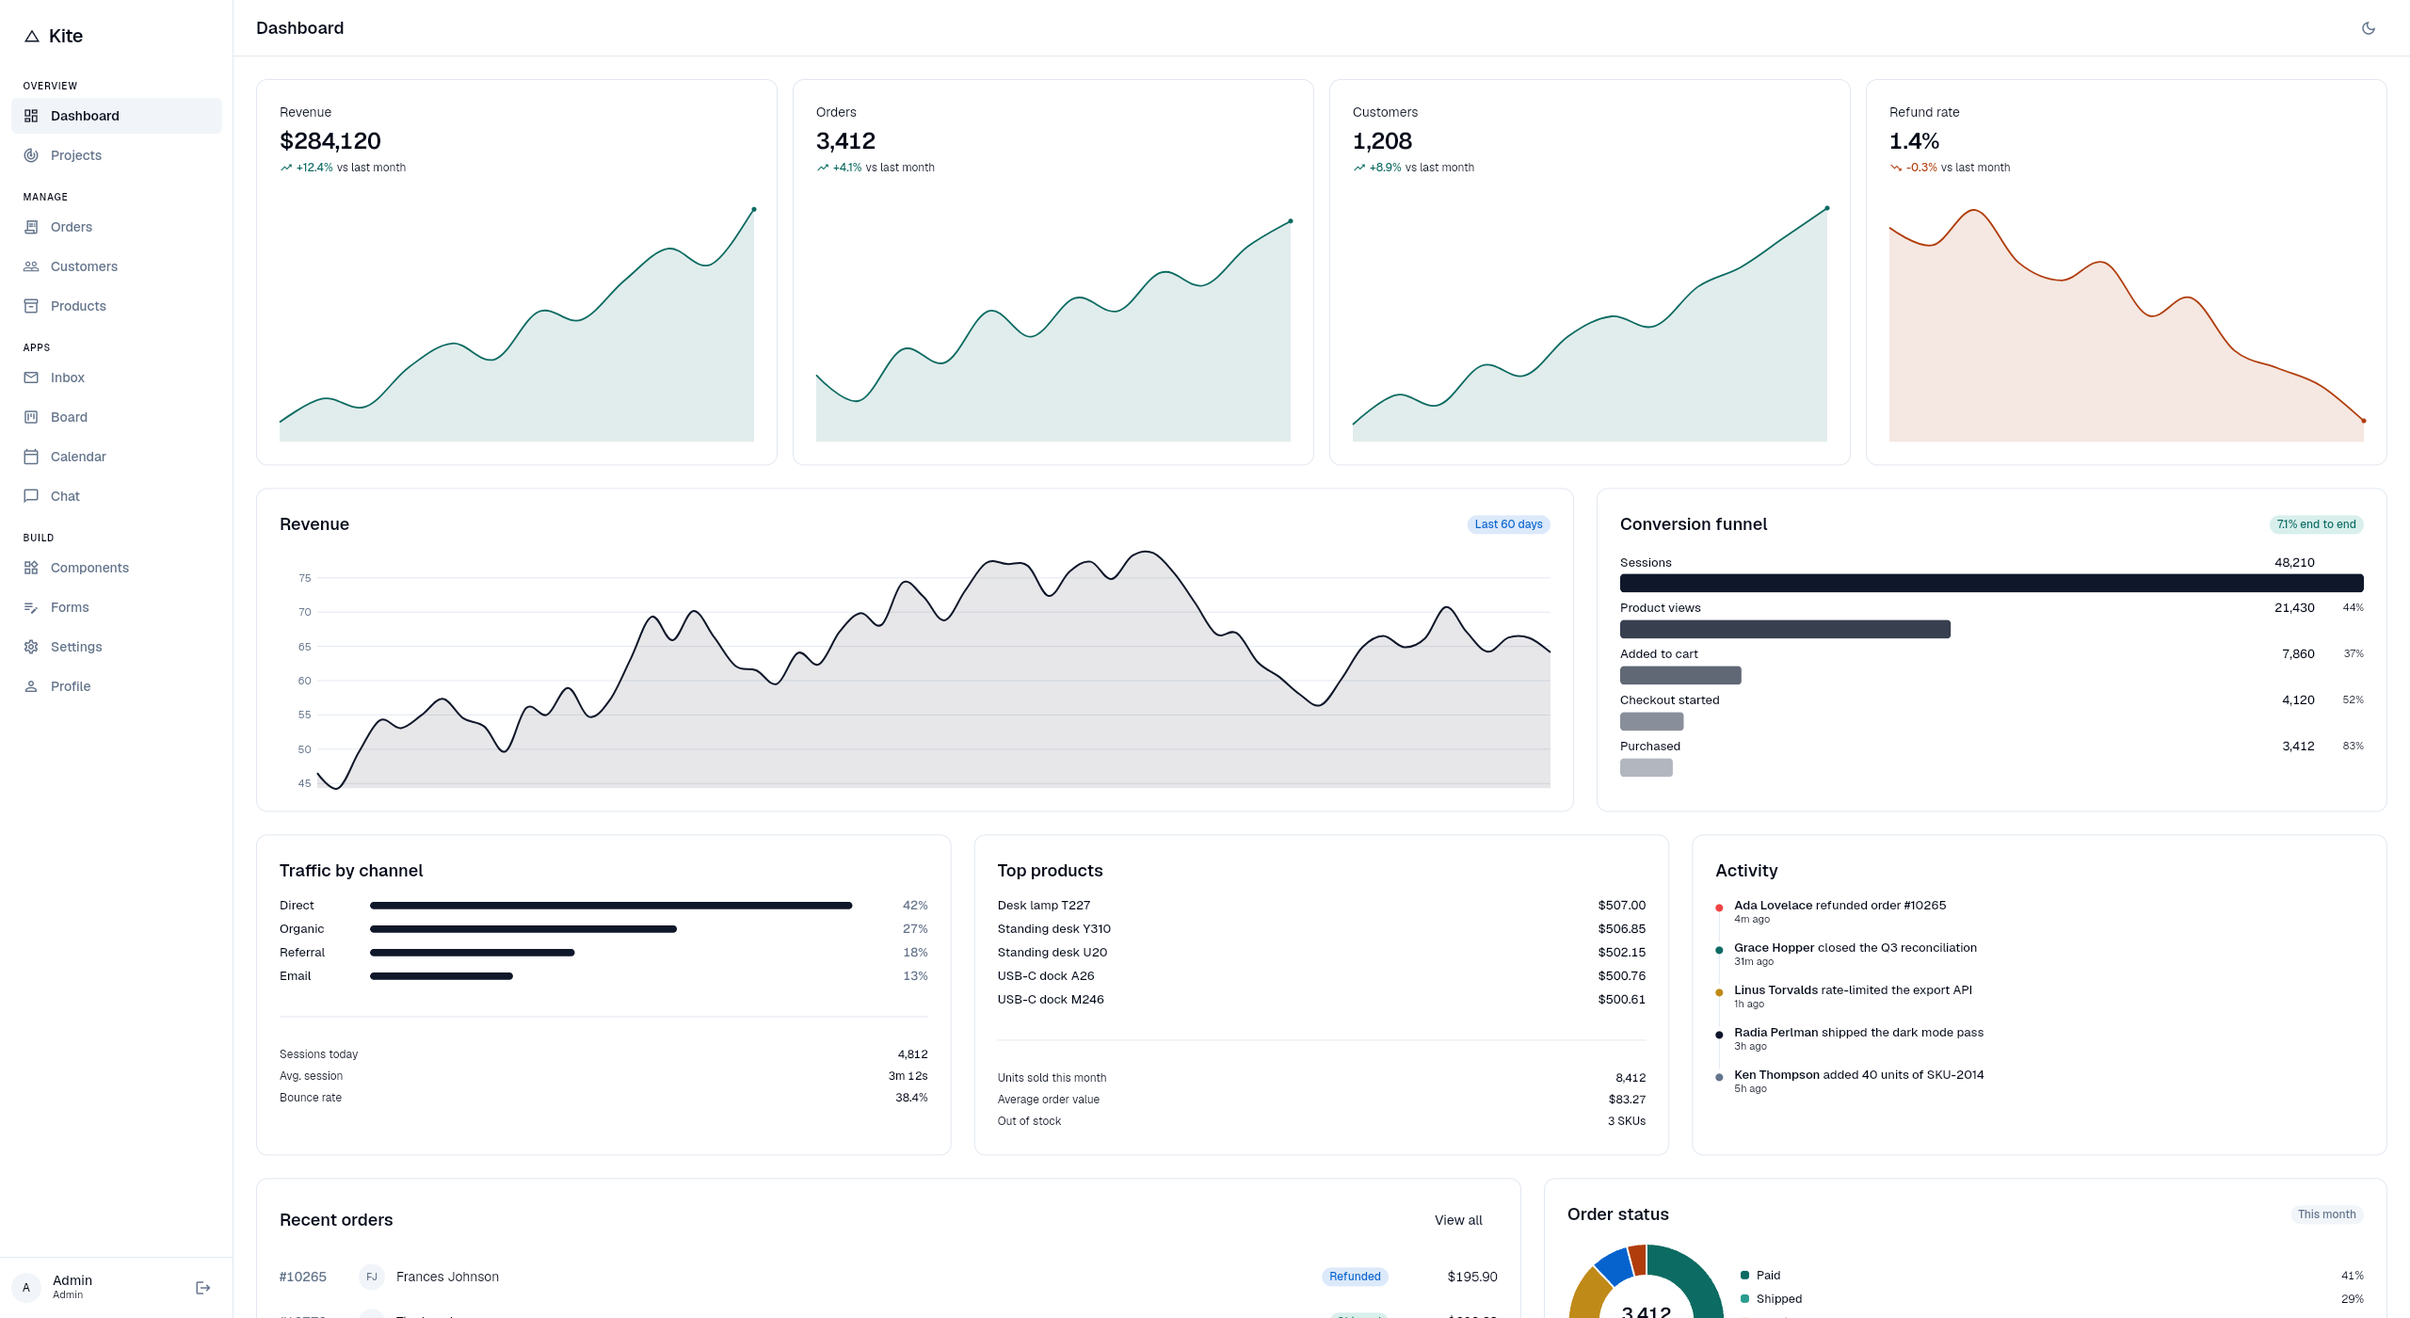
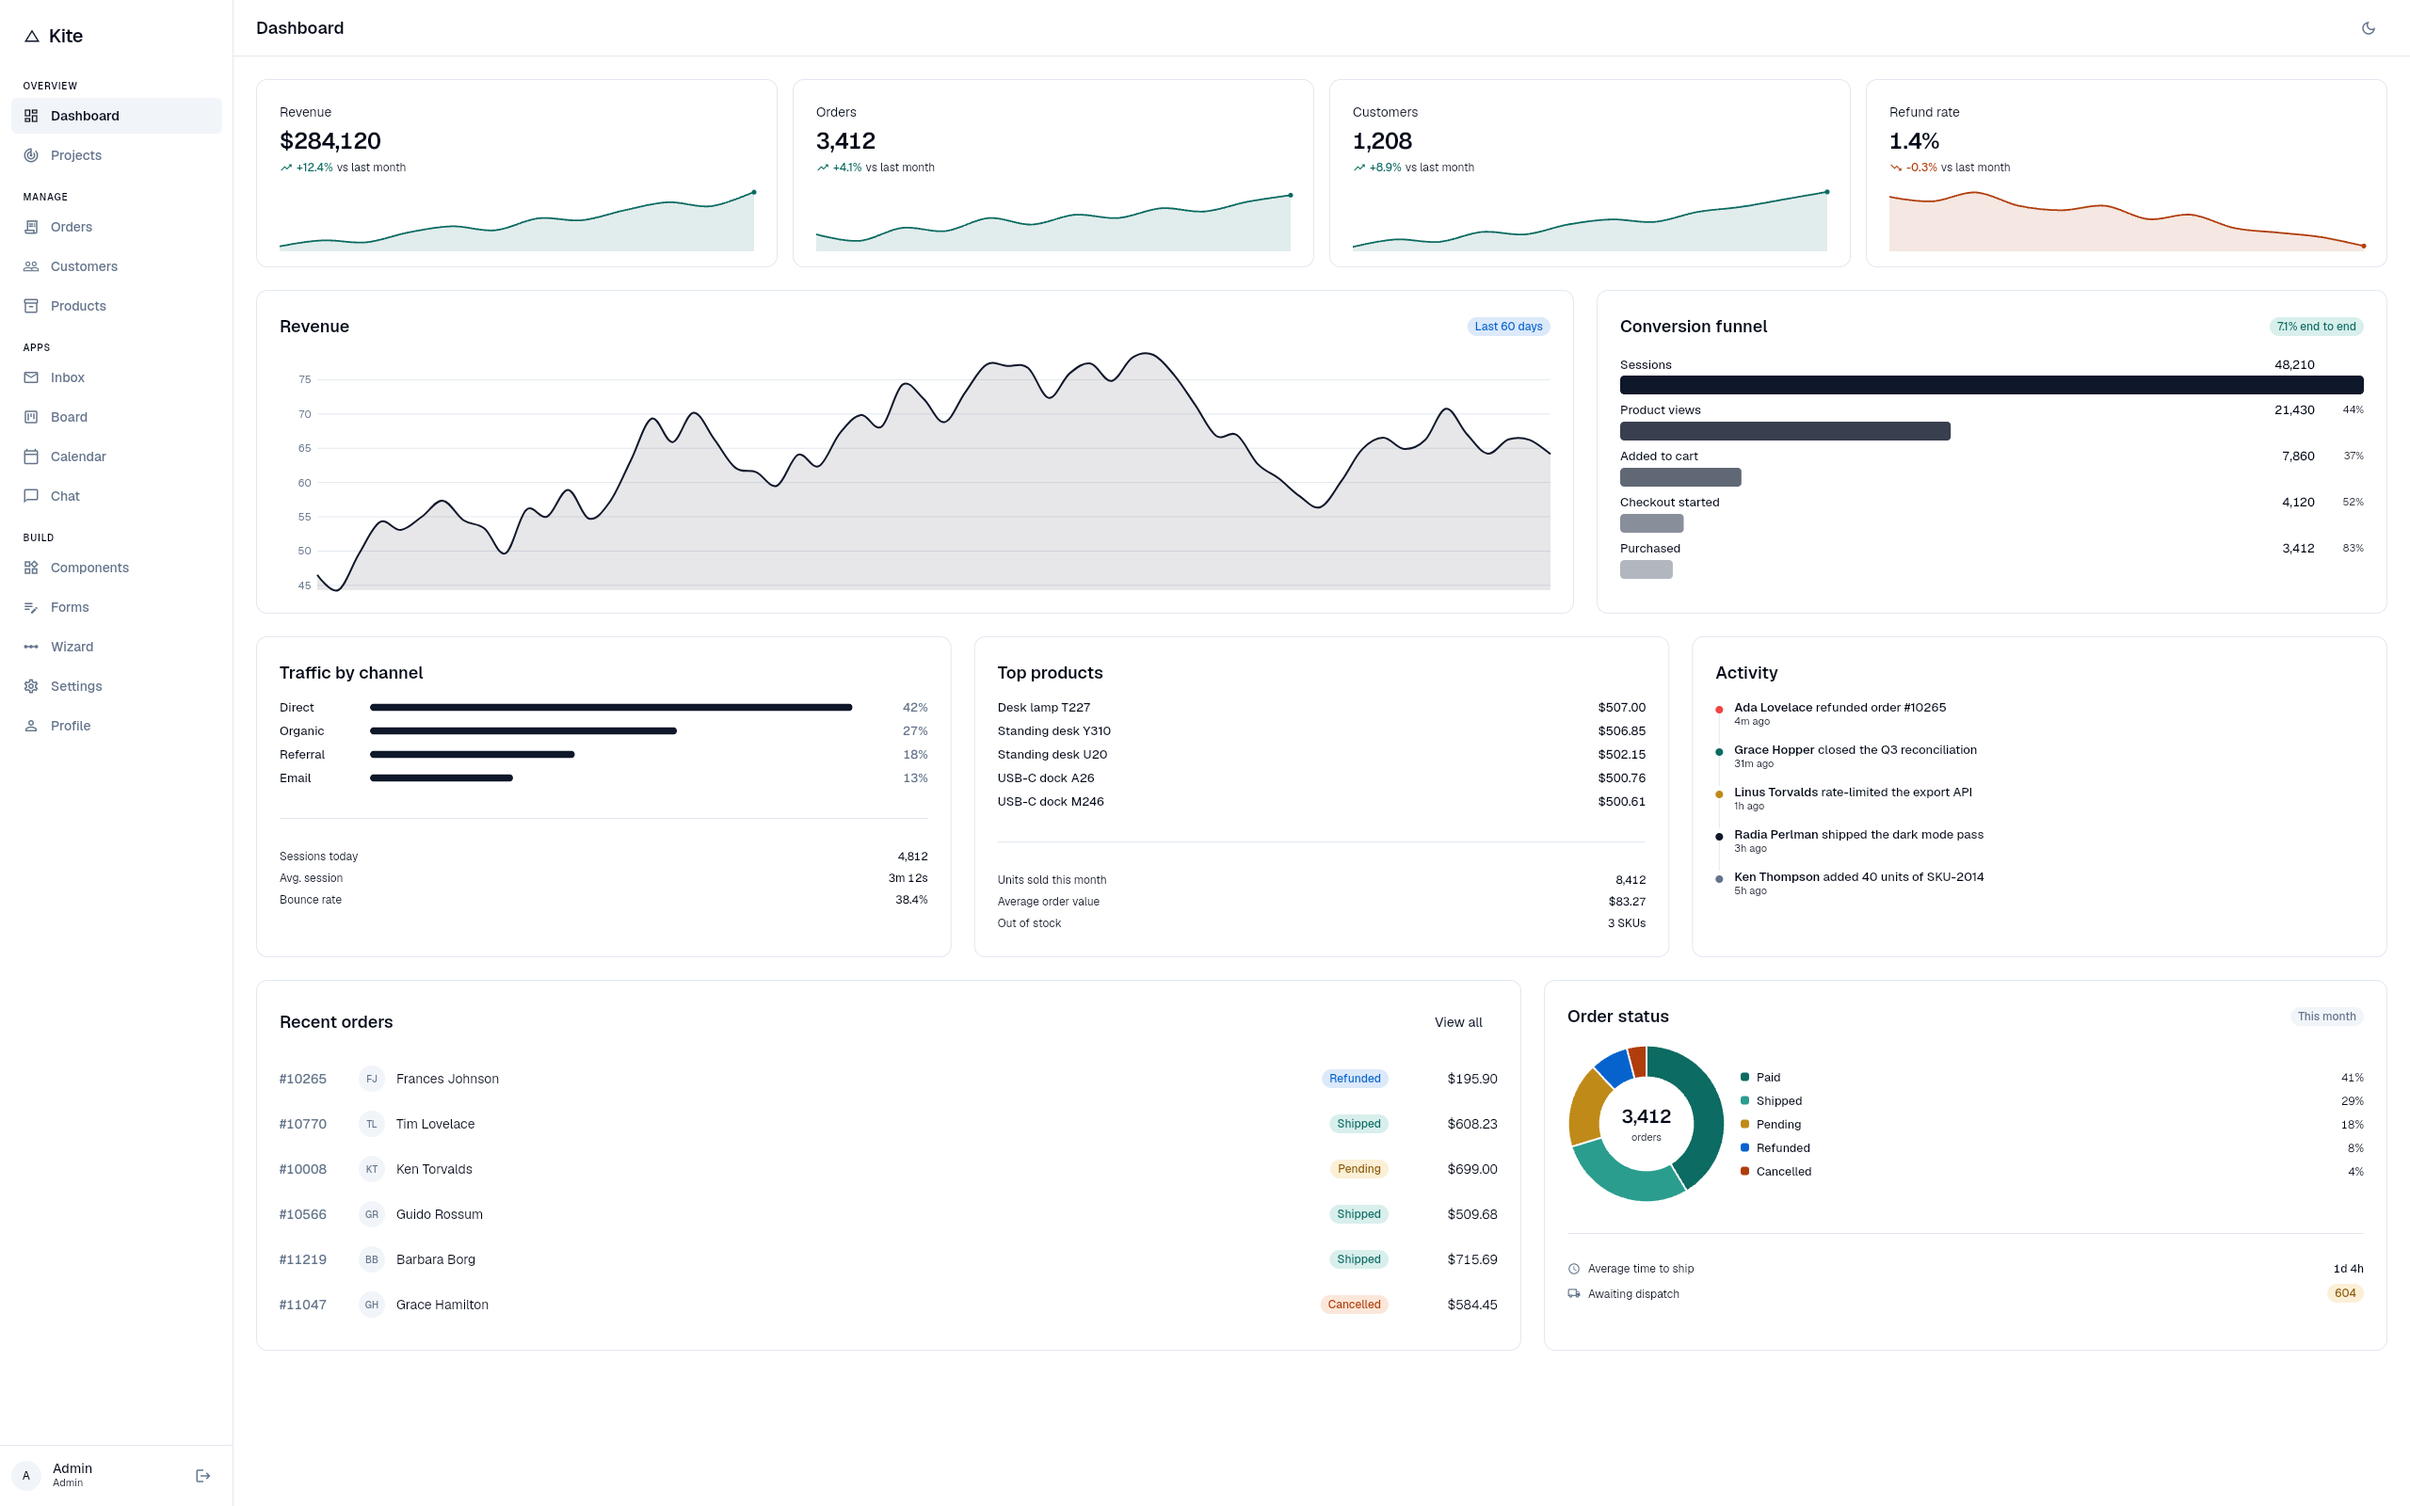
Fix stat tiles: fixed height, flexible width
GridView.count with a childAspectRatio was the wrong tool, and my previous
change made it worse rather than better. Aspect ratio ties height to width, so
on a wide screen the tiles grew taller while every other card on the page kept
its natural content height — an inflated row sitting above everything else.
Letting the sparkline expand inside that only made the growth more obvious.

A stat tile has a fixed amount to say: a label, a number, a delta, a trend.
That is a constant height. Only the width should answer to the viewport, which
is also what lets the sparkline stretch instead of stretching the card.

New KiteStatGrid lays tiles out in fixed-height rows of Expanded children,
dropping a column when the tiles would fall below a minimum width. Both
dashboards use it — 200px on the main one, 128px on Projects, whose tiles
carry no chart.

Also tightened the tile's bottom padding, since the chart runs to the card
edge and needs less room under it than the text needs beside it.

Checked side by side at 1440 and 2560: identical tile height, only the width
and the sparkline's horizontal span change.

26 tests green. App payload 1573 KB against the 1750 KB budget.

diff --git a/lib/kite_ui/stat_grid.dart b/lib/kite_ui/stat_grid.dart
@@ -1,0 +1,79 @@
+import 'package:flutter/widgets.dart';
+
+import 'tokens.dart';
+
+/// Lays out stat tiles at a **fixed height** with flexible width.
+///
+/// The obvious tool is `GridView.count` with a `childAspectRatio`, and it is
+/// the wrong one: aspect ratio ties height to width, so on a wide screen the
+/// tiles grow taller while every other card on the page keeps its natural
+/// content height. The row ends up looking inflated next to everything below it.
+///
+/// A stat tile has a fixed amount to say — a label, a number, a delta, and a
+/// trend. That is a constant height. Only the width should respond to the
+/// viewport, which is also what lets the sparkline stretch instead of
+/// stretching the card.
+class KiteStatGrid extends StatelessWidget {
+  const KiteStatGrid({
+    super.key,
+    required this.children,
+    this.height = 200,
+    this.spacing = KiteSpace.lg,
+    this.minTileWidth = 220,
+  });
+
+  final List<Widget> children;
+
+  /// Same at every viewport width. Tune here, not per screen.
+  final double height;
+  final double spacing;
+
+  /// Below this, drop a column rather than squeezing.
+  final double minTileWidth;
+
+  @override
+  Widget build(BuildContext context) {
+    return LayoutBuilder(
+      builder: (context, constraints) {
+        final fit =
+            ((constraints.maxWidth + spacing) / (minTileWidth + spacing))
+                .floor();
+        final columns = fit.clamp(1, children.length);
+
+        final rows = <List<Widget>>[];
+        for (var i = 0; i < children.length; i += columns) {
+          rows.add(
+            children.sublist(i, (i + columns).clamp(0, children.length)),
+          );
+        }
+
+        return Column(
+          crossAxisAlignment: CrossAxisAlignment.stretch,
+          children: [
+            for (var r = 0; r < rows.length; r++) ...[
+              if (r > 0) SizedBox(height: spacing),
+              SizedBox(
+                height: height,
+                child: Row(
+                  crossAxisAlignment: CrossAxisAlignment.stretch,
+                  children: [
+                    for (var i = 0; i < columns; i++) ...[
+                      if (i > 0) SizedBox(width: spacing),
+                      // Pad the final row so a lone tile does not stretch to
+                      // the full width and break the column rhythm.
+                      Expanded(
+                        child: i < rows[r].length
+                            ? rows[r][i]
+                            : const SizedBox.shrink(),
+                      ),
+                    ],
+                  ],
+                ),
+              ),
+            ],
+          ],
+        );
+      },
+    );
+  }
+}

diff --git a/lib/features/dashboard/dashboard_screen.dart b/lib/features/dashboard/dashboard_screen.dart
@@ -144,17 +144,7 @@ class _StatRow extends StatelessWidget {
 
   @override
   Widget build(BuildContext context) {
-    final columns = KiteBreak.isMobile(context)
-        ? 1
-        : (KiteBreak.isTablet(context) ? 2 : 4);
-    return GridView.count(
-      crossAxisCount: columns,
-      shrinkWrap: true,
-      physics: const NeverScrollableScrollPhysics(),
-      mainAxisSpacing: KiteSpace.lg,
-      crossAxisSpacing: KiteSpace.lg,
-      // Wider than tall, but not so wide that the sparkline goes thready.
-      childAspectRatio: columns == 1 ? 2.6 : 1.35,
+    return KiteStatGrid(
       children: [
         for (final (label, value, delta, tone, spark) in _stats)
           _TrendStat(
@@ -191,7 +181,14 @@ class _TrendStat extends StatelessWidget {
     final good = tone == KiteTone.success;
     final accent = good ? const Color(0xFF0C6B62) : const Color(0xFFB03D0B);
     return Container(
-      padding: const EdgeInsets.all(KiteSpace.xl),
+      // Tighter at the bottom than the sides: the chart runs to the card edge,
+      // so it needs less breathing room under it than the text needs beside it.
+      padding: const EdgeInsets.fromLTRB(
+        KiteSpace.xl,
+        KiteSpace.xl,
+        KiteSpace.xl,
+        KiteSpace.lg,
+      ),
       decoration: BoxDecoration(
         color: c.card,
         border: Border.all(color: c.border),

diff --git a/lib/features/dashboard/project_dashboard_screen.dart b/lib/features/dashboard/project_dashboard_screen.dart
@@ -75,17 +75,10 @@ class _Stats extends StatelessWidget {
 
   @override
   Widget build(BuildContext context) {
-    final columns = KiteBreak.isMobile(context)
-        ? 1
-        : (KiteBreak.isTablet(context) ? 2 : 4);
-    return GridView.count(
-      crossAxisCount: columns,
-      shrinkWrap: true,
-      physics: const NeverScrollableScrollPhysics(),
-      mainAxisSpacing: KiteSpace.lg,
-      crossAxisSpacing: KiteSpace.lg,
-      childAspectRatio: columns == 1 ? 3.2 : 2.0,
-      children: const [
+    // Shorter than the main dashboard's tiles: these carry no sparkline.
+    return const KiteStatGrid(
+      height: 128,
+      children: [
         KiteStat(
           label: 'Open issues',
           value: '47',

diff --git a/lib/kite_ui/kite_ui.dart b/lib/kite_ui/kite_ui.dart
@@ -16,4 +16,5 @@ export 'feedback.dart';
 export 'format.dart';
 export 'inputs.dart';
 export 'sparkline.dart';
+export 'stat_grid.dart';
 export 'tokens.dart';
